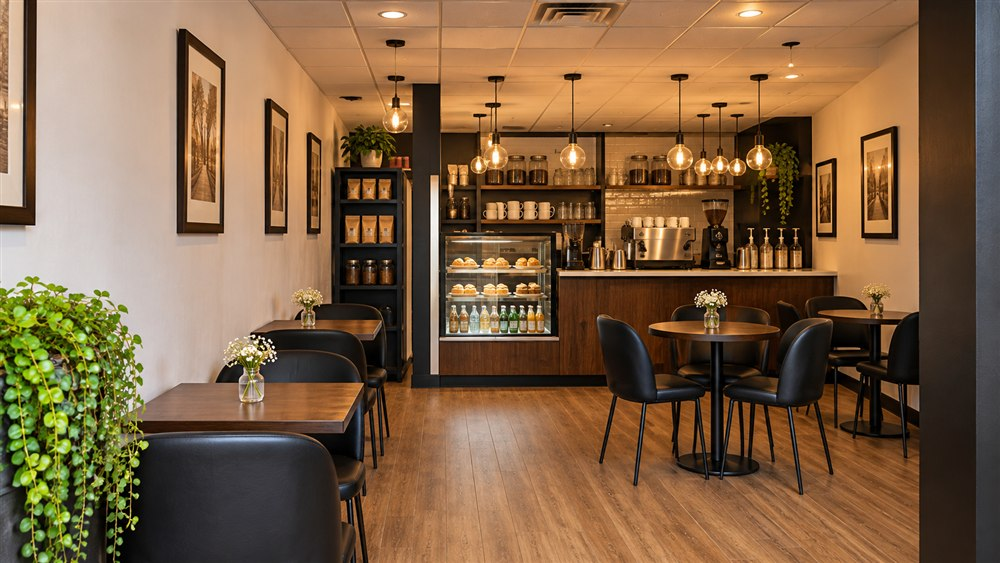
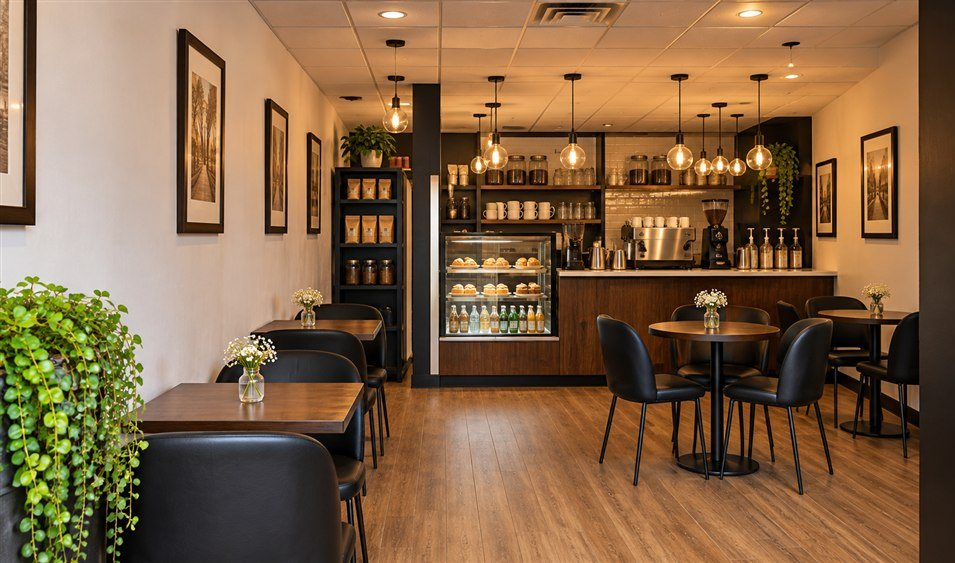
Warm the colour palette to match the café photo
Backgrounds move from pinkish cream to warm ivory and honey-cream, text to
espresso browns, and caramel to the photo's wood tone (#975826, passes
contrast on every background). Shorter hero fade so the photo's dark chairs
aren't washed grey; trim the dark frame strip on the photo's right edge.

diff --git a/styles.css b/styles.css
@@ -5,21 +5,27 @@
    ===================================================================== */
 
 :root {
-  --page: #fcf8f4;
-  --band: #f5eee6;
-  --card: #f5ece5;
-  --white: #fffcf8;
-  --line: #e8ddd2;
-  --line-2: #d9cbc1;
-  --ink: #2e2827;
-  --text: #4b423d;
-  --muted: #6f645d;
-  --caramel: #b0642d;
-  --caramel-dark: #934f1e;
-  --caramel-soft: #f0dcc6;
-  --star: #b8743f;
+  /* surfaces: warm ivory and honey-cream, taken from the café photo */
+  --page: #faf6f0;
+  --band: #f2e8da;
+  --card: #f4ebde;
+  --white: #fffcf7;
+  --line: #e4d6c3;
+  --line-2: #d4c2aa;
+
+  /* text: espresso browns */
+  --ink: #2b2118;
+  --text: #4a3c2f;
+  --muted: #6b5a48;
+
+  /* accents: caramel from the photo (passes contrast on every background) */
+  --caramel: #975826;
+  --caramel-dark: #7d461c;
+  --caramel-soft: #efdcc3;
+  --star: #b07a3e;
   --green: #2e7d32;
   --red: #b3261e;
+
   --display: "Outfit", "Inter", system-ui, -apple-system, "Segoe UI", Roboto, Arial, sans-serif;
   --sans: "Inter", system-ui, -apple-system, "Segoe UI", Roboto, Arial, sans-serif;
   --radius: 16px;
@@ -70,7 +76,7 @@ a:hover { color: var(--caramel-dark); }
 .btn { display: inline-flex; align-items: center; justify-content: center; gap: .55rem; min-height: 48px; padding: .7rem 1.6rem; border-radius: 999px; border: 1.5px solid transparent; font-family: var(--display); font-size: 1rem; font-weight: 500; line-height: 1.2; text-decoration: none; cursor: pointer; transition: transform .25s var(--ease), background-color .25s, color .25s, box-shadow .25s, border-color .25s; }
 .btn:hover { transform: translateY(-2px); }
 .btn .icon { width: 19px; height: 19px; }
-.btn-caramel { background: linear-gradient(180deg, #bf7238, var(--caramel)); color: #fff; box-shadow: 0 6px 16px rgba(176, 100, 45, .25); }
+.btn-caramel { background: linear-gradient(180deg, #a8652f, var(--caramel)); color: #fff; box-shadow: 0 6px 16px rgba(151, 88, 38, .25); }
 .btn-caramel:hover { background: var(--caramel-dark); color: #fff; }
 .btn-outline { background: transparent; color: var(--ink); border-color: var(--caramel); }
 .btn-outline:hover { background: var(--caramel); color: #fff; }
@@ -78,7 +84,7 @@ a:hover { color: var(--caramel-dark); }
 .btn-row.center { justify-content: center; }
 
 /* header: centred logo, split navigation */
-.site-header { position: sticky; top: 0; z-index: 50; background: rgba(252, 248, 244, .97); border-bottom: 1px solid transparent; transition: box-shadow .3s, border-color .3s; }
+.site-header { position: sticky; top: 0; z-index: 50; background: rgba(250, 246, 240, .97); border-bottom: 1px solid transparent; transition: box-shadow .3s, border-color .3s; }
 .site-header.is-scrolled { border-bottom-color: var(--line); box-shadow: 0 6px 20px rgba(90, 60, 40, .07); }
 .header-inner { position: relative; display: flex; align-items: center; justify-content: space-between; min-height: 76px; }
 .brand { display: inline-flex; flex-direction: column; align-items: center; color: var(--ink); text-decoration: none; line-height: 1; }
@@ -120,7 +126,7 @@ a:hover { color: var(--caramel-dark); }
 .hero { position: relative; overflow: hidden; background: var(--band); }
 .hero-media { position: relative; height: 240px; }
 .hero-media img { width: 100%; height: 100%; object-fit: cover; }
-.hero-media::after { content: ""; position: absolute; inset: 0 0 -1px 0; background: linear-gradient(180deg, rgba(245, 238, 230, 0) 45%, var(--band) 100%); }
+.hero-media::after { content: ""; position: absolute; inset: 0 0 -1px 0; background: linear-gradient(180deg, rgba(242, 232, 218, 0) 45%, var(--band) 100%); }
 .hero-content { position: relative; z-index: 1; padding-top: 1.5rem; padding-bottom: 3rem; }
 .hero-title { font-size: clamp(2.3rem, 7vw, 3.2rem); letter-spacing: -.02em; line-height: 1.05; margin-bottom: 1rem; }
 .hero-lead { max-width: 30rem; font-size: 1.08rem; color: var(--text); margin: 0; display: flex; flex-wrap: wrap; align-items: center; gap: .5rem .75rem; }
@@ -129,7 +135,7 @@ a:hover { color: var(--caramel-dark); }
   .hero { display: flex; align-items: center; min-height: 320px; }
   .hero-home { min-height: clamp(400px, 30vw, 460px); }
   .hero-media { position: absolute; top: 0; right: 0; bottom: 0; width: 64%; height: auto; }
-  .hero-media::after { inset: 0 0 0 -2px; background: linear-gradient(90deg, var(--band) 0%, rgba(245, 238, 230, .82) 16%, rgba(245, 238, 230, .25) 38%, rgba(245, 238, 230, 0) 55%); }
+  .hero-media::after { inset: 0 0 0 -2px; background: linear-gradient(90deg, var(--band) 0%, rgba(242, 232, 218, .7) 9%, rgba(242, 232, 218, .2) 17%, rgba(242, 232, 218, 0) 26%); }
   .hero-home .hero-media img { object-position: 50% 62%; }
   .hero-content { padding-top: 3.5rem; padding-bottom: 3.5rem; }
   .hero-content > * { max-width: 34rem; }
@@ -148,7 +154,7 @@ a:hover { color: var(--caramel-dark); }
 .section-head { text-align: center; margin-bottom: 2rem; }
 @media (min-width: 900px) { .section { padding: 5rem 0; } }
 
-.placeholder { display: flex; flex-direction: column; align-items: center; justify-content: center; gap: .5rem; width: 100%; height: 100%; background: linear-gradient(150deg, #f3e6da 0%, #e6d2bf 100%); color: var(--caramel); }
+.placeholder { display: flex; flex-direction: column; align-items: center; justify-content: center; gap: .5rem; width: 100%; height: 100%; background: linear-gradient(150deg, #f3e8d8 0%, #e3cfb3 100%); color: var(--caramel); }
 .placeholder-icon { width: 44px; height: 44px; }
 .placeholder-label { font-family: var(--display); font-weight: 600; text-align: center; padding: 0 1rem; color: var(--ink); }
 
@@ -180,7 +186,7 @@ a:hover { color: var(--caramel-dark); }
 .story-text { position: relative; }
 .story-text p { font-size: 1.05rem; max-width: 33rem; position: relative; z-index: 1; }
 .story-text .btn { position: relative; z-index: 1; margin-top: .5rem; }
-.leaf-art { position: absolute; right: -10px; top: -20px; width: 150px; height: 150px; color: #e3c9b1; stroke-width: 1.3; pointer-events: none; }
+.leaf-art { position: absolute; right: -10px; top: -20px; width: 150px; height: 150px; color: #dcc3a3; stroke-width: 1.3; pointer-events: none; }
 .facts { display: grid; grid-template-columns: repeat(3, minmax(0, 1fr)); gap: .75rem; margin-top: 1.5rem; max-width: 33rem; }
 .facts li { display: flex; flex-direction: column; gap: .15rem; padding: 1rem .75rem; background: var(--card); border-radius: var(--radius); text-align: center; }
 .facts strong { font-family: var(--display); font-size: 1.7rem; font-weight: 600; color: var(--caramel); line-height: 1.1; }
@@ -217,7 +223,7 @@ a:hover { color: var(--caramel-dark); }
 @media (min-width: 900px) { .review-cards { grid-template-columns: repeat(3, minmax(0, 1fr)); gap: 1.25rem; } }
 
 /* Ethiopian roots */
-.ethiopia { background: radial-gradient(70% 90% at 85% 15%, rgba(240, 220, 198, .7), transparent 60%), var(--band); }
+.ethiopia { background: radial-gradient(70% 90% at 85% 15%, rgba(236, 214, 182, .7), transparent 60%), var(--band); }
 .ethiopia-grid { display: grid; gap: 2.5rem; align-items: center; }
 .amharic { font-family: "Noto Sans Ethiopic", "Nyala", var(--sans); font-size: .62em; font-weight: 500; color: var(--caramel); margin-left: .35rem; vertical-align: middle; }
 .flag-bar { display: flex; width: 84px; height: 4px; border-radius: 2px; overflow: hidden; margin-bottom: 1.4rem; }
@@ -372,7 +378,7 @@ a:hover { color: var(--caramel-dark); }
 .search { position: relative; flex: 1 1 100%; }
 .search .icon { position: absolute; left: 14px; top: 50%; transform: translateY(-50%); width: 20px; height: 20px; color: var(--muted); }
 .search input { width: 100%; min-height: 48px; padding: .7rem 1rem .7rem 2.75rem; background: var(--white); border: 1px solid var(--line-2); border-radius: 999px; color: var(--ink); font: inherit; }
-.search input:focus { outline: none; border-color: var(--caramel); box-shadow: 0 0 0 3px rgba(176, 100, 45, .18); }
+.search input:focus { outline: none; border-color: var(--caramel); box-shadow: 0 0 0 3px rgba(151, 88, 38, .18); }
 .chips { display: flex; flex-wrap: wrap; gap: .5rem; }
 .chip { display: inline-flex; align-items: center; gap: .4rem; min-height: 40px; padding: .4rem .95rem; border-radius: 999px; border: 1px solid var(--line-2); background: var(--white); color: var(--ink); font: inherit; font-size: .88rem; cursor: pointer; }
 .chip:hover { border-color: var(--caramel); }

diff --git a/index.html b/index.html
@@ -5,7 +5,7 @@
   <meta name="viewport" content="width=device-width, initial-scale=1">
   <title>Megga Coffee | Ethiopian Café, Breakfast &amp; Brunch on the Danforth, Toronto</title>
   <meta name="description" content="Megga Coffee is a warm Ethiopian neighbourhood café at 1696 Danforth Ave, Toronto. Espresso drinks, breakfast sandwiches, benedicts, pancakes and burgers. Rated 5.0 on Google.">
-  <meta name="theme-color" content="#fcf8f4">
+  <meta name="theme-color" content="#faf6f0">
 
   <!-- Open Graph (link previews on Facebook, WhatsApp, iMessage, etc.) -->
   <meta property="og:type" content="website">
@@ -22,7 +22,7 @@
   <link rel="preconnect" href="https://fonts.googleapis.com">
   <link rel="preconnect" href="https://fonts.gstatic.com" crossorigin>
   <link rel="stylesheet" href="https://fonts.googleapis.com/css2?family=Outfit:wght@400;500;600;700&family=Inter:wght@400;500;600&display=swap">
-  <link rel="preload" as="image" href="assets/home-interior.jpg" imagesrcset="assets/home-interior-1000.jpg 1000w, assets/home-interior.jpg 1672w" imagesizes="(min-width: 900px) 64vw, 100vw">
+  <link rel="preload" as="image" href="assets/home-interior.jpg" imagesrcset="assets/home-interior-1000.jpg 1000w, assets/home-interior.jpg 1596w" imagesizes="(min-width: 900px) 64vw, 100vw">
   <link rel="stylesheet" href="styles.css">
 
   <script src="menu-data.js" defer></script>
@@ -101,7 +101,7 @@
   <main id="main">
     <section class="hero hero-home" aria-labelledby="page-title">
       <div class="hero-media">
-        <img src="assets/home-interior.jpg" srcset="assets/home-interior-1000.jpg 1000w, assets/home-interior.jpg 1672w" sizes="(min-width: 900px) 64vw, 100vw" alt="Café seating and a coffee counter under warm pendant lights" width="1672" height="941" fetchpriority="high" decoding="async">
+        <img src="assets/home-interior.jpg" srcset="assets/home-interior-1000.jpg 1000w, assets/home-interior.jpg 1596w" sizes="(min-width: 900px) 64vw, 100vw" alt="Café seating and a coffee counter under warm pendant lights" width="1596" height="941" fetchpriority="high" decoding="async">
       </div>
       <div class="container hero-content">
         <p class="eyebrow">Welcome to</p>

diff --git a/about.html b/about.html
@@ -5,7 +5,7 @@
   <meta name="viewport" content="width=device-width, initial-scale=1">
   <title>Our Story | Megga Coffee, an Ethiopian Café on the Danforth, Toronto</title>
   <meta name="description" content="The story of Megga Morning Grace Coffee: an Ethiopian neighbourhood café at 1696 Danforth Ave, Toronto, serving espresso drinks, breakfast and brunch.">
-  <meta name="theme-color" content="#fcf8f4">
+  <meta name="theme-color" content="#faf6f0">
 
   <!-- Open Graph (link previews on Facebook, WhatsApp, iMessage, etc.) -->
   <meta property="og:type" content="website">

diff --git a/contact.html b/contact.html
@@ -5,7 +5,7 @@
   <meta name="viewport" content="width=device-width, initial-scale=1">
   <title>Contact | Megga Coffee, 1696 Danforth Ave, Toronto | Hours &amp; Directions</title>
   <meta name="description" content="Visit Megga Coffee at 1696 Danforth Ave, Toronto, ON M4C 1H8. Open daily 8:00 a.m. to 9:00 p.m. Directions, phone and map.">
-  <meta name="theme-color" content="#fcf8f4">
+  <meta name="theme-color" content="#faf6f0">
 
   <!-- Open Graph (link previews on Facebook, WhatsApp, iMessage, etc.) -->
   <meta property="og:type" content="website">

diff --git a/menu.html b/menu.html
@@ -5,7 +5,7 @@
   <meta name="viewport" content="width=device-width, initial-scale=1">
   <title>Menu | Megga Coffee, Danforth Ave, Toronto</title>
   <meta name="description" content="The Megga Coffee menu: specialty coffees, breakfast sandwiches, benedicts, omelettes, pancakes, burgers, lunch plates and vegetarian dishes. 1696 Danforth Ave, Toronto.">
-  <meta name="theme-color" content="#fcf8f4">
+  <meta name="theme-color" content="#faf6f0">
 
   <meta property="og:type" content="website">
   <meta property="og:site_name" content="Megga Coffee">

diff --git a/reviews.html b/reviews.html
@@ -5,7 +5,7 @@
   <meta name="viewport" content="width=device-width, initial-scale=1">
   <title>Reviews | Megga Coffee, Rated 5.0 on Google | Danforth, Toronto</title>
   <meta name="description" content="Megga Coffee on the Danforth is rated 5.0 from 25 Google reviews. Read what guests say or leave your own review.">
-  <meta name="theme-color" content="#fcf8f4">
+  <meta name="theme-color" content="#faf6f0">
 
   <!-- Open Graph (link previews on Facebook, WhatsApp, iMessage, etc.) -->
   <meta property="og:type" content="website">

diff --git a/gallery.html b/gallery.html
@@ -5,7 +5,7 @@
   <meta name="viewport" content="width=device-width, initial-scale=1">
   <title>Gallery | Megga Coffee on the Danforth, Toronto</title>
   <meta name="description" content="Photos from inside Megga Coffee at 1696 Danforth Ave, Toronto: the café, fresh pastries, coffee and more.">
-  <meta name="theme-color" content="#fcf8f4">
+  <meta name="theme-color" content="#faf6f0">
 
   <!-- Open Graph (link previews on Facebook, WhatsApp, iMessage, etc.) -->
   <meta property="og:type" content="website">
